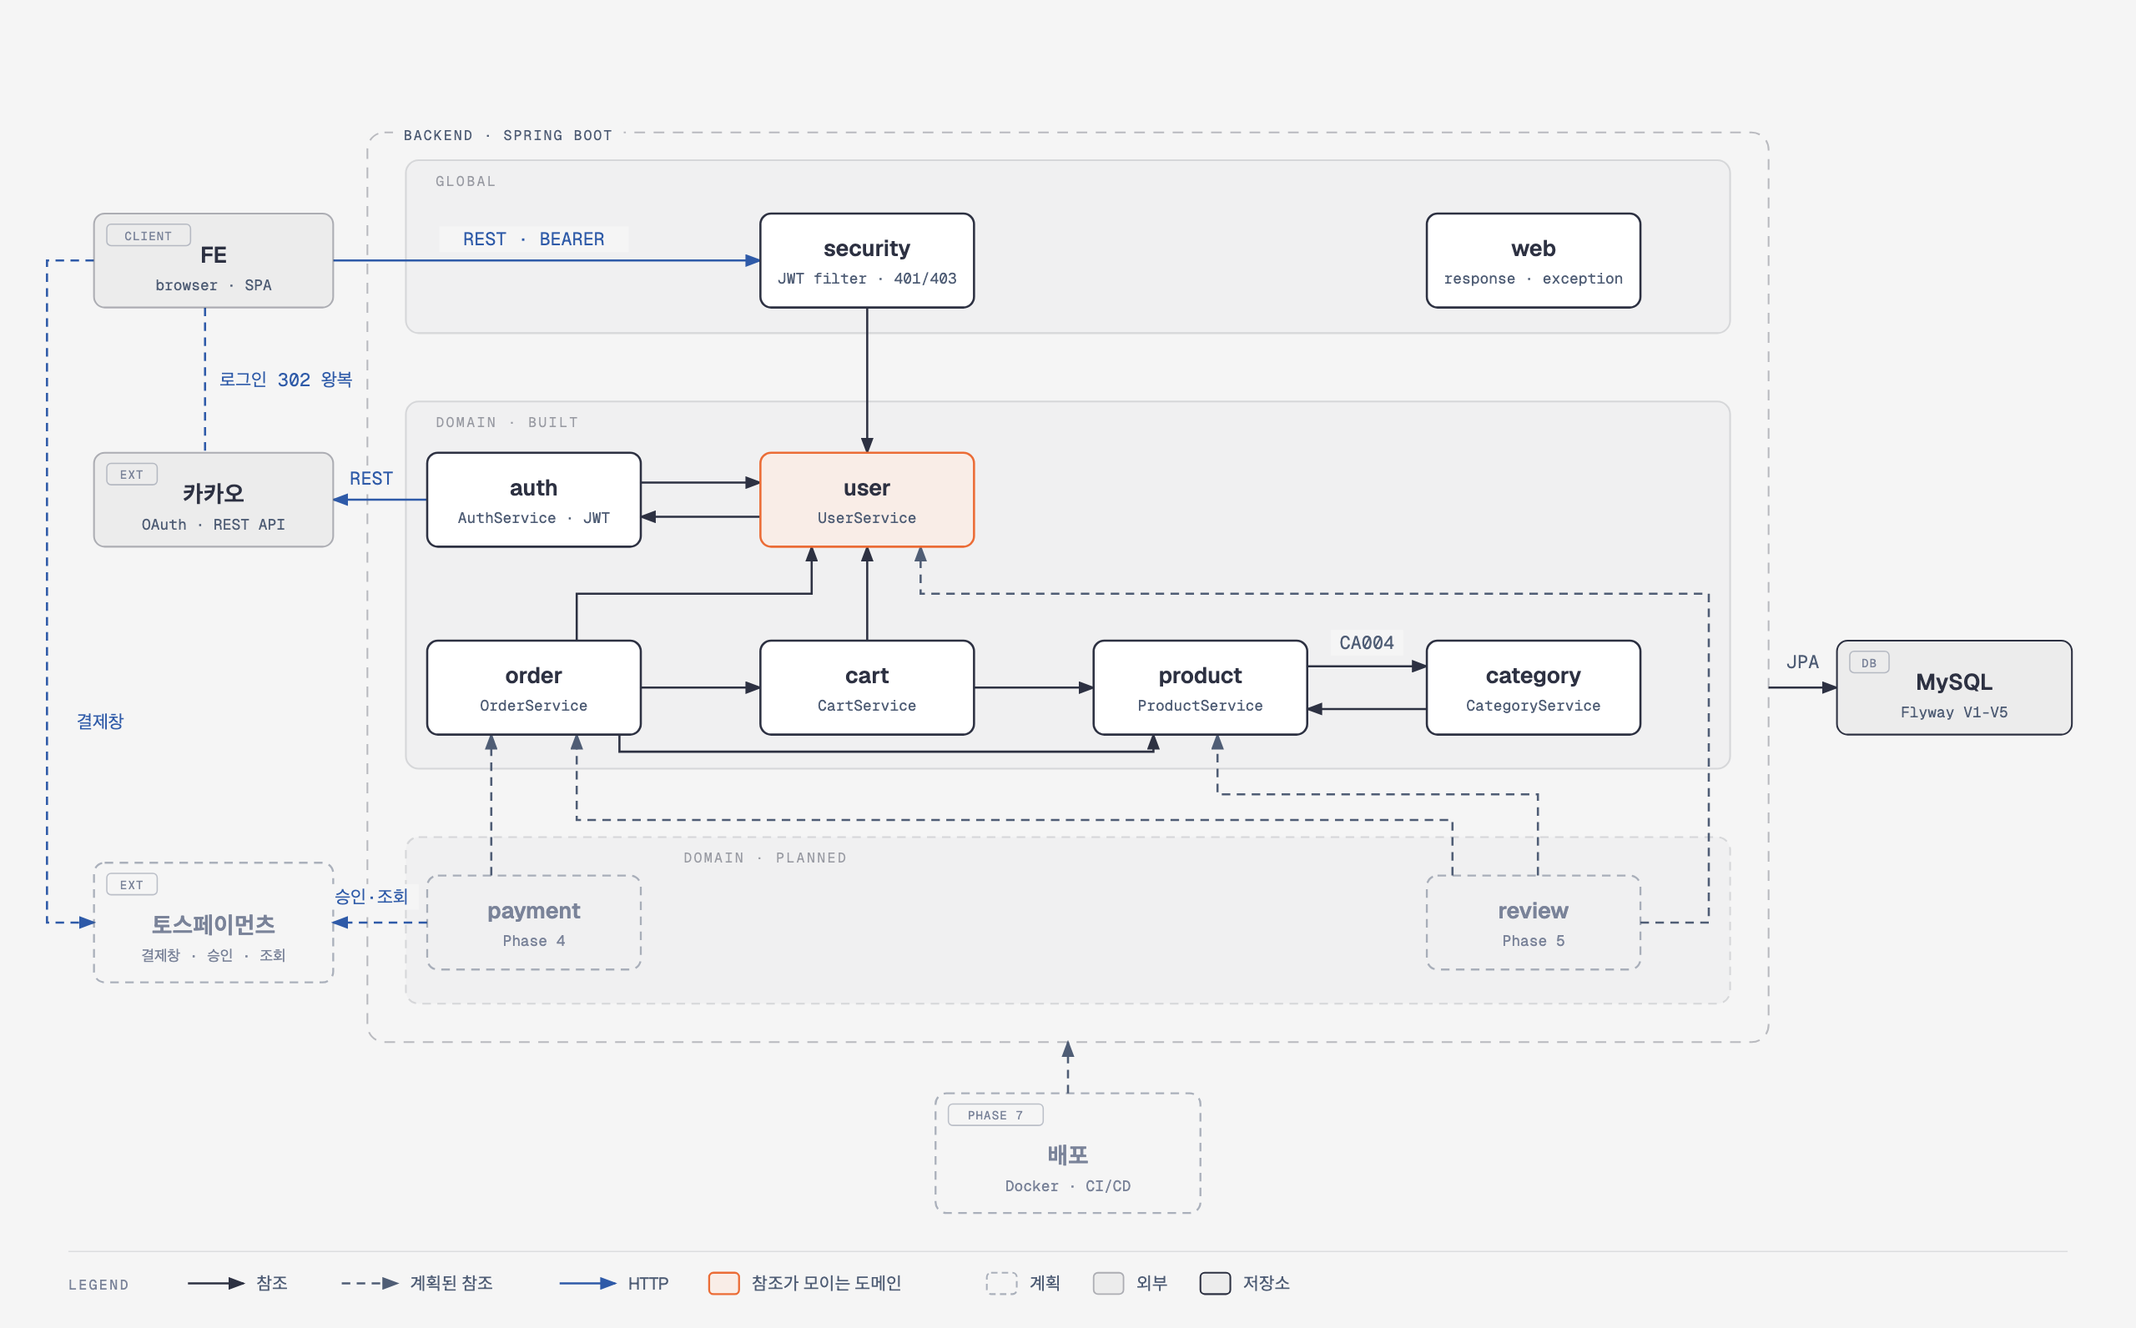
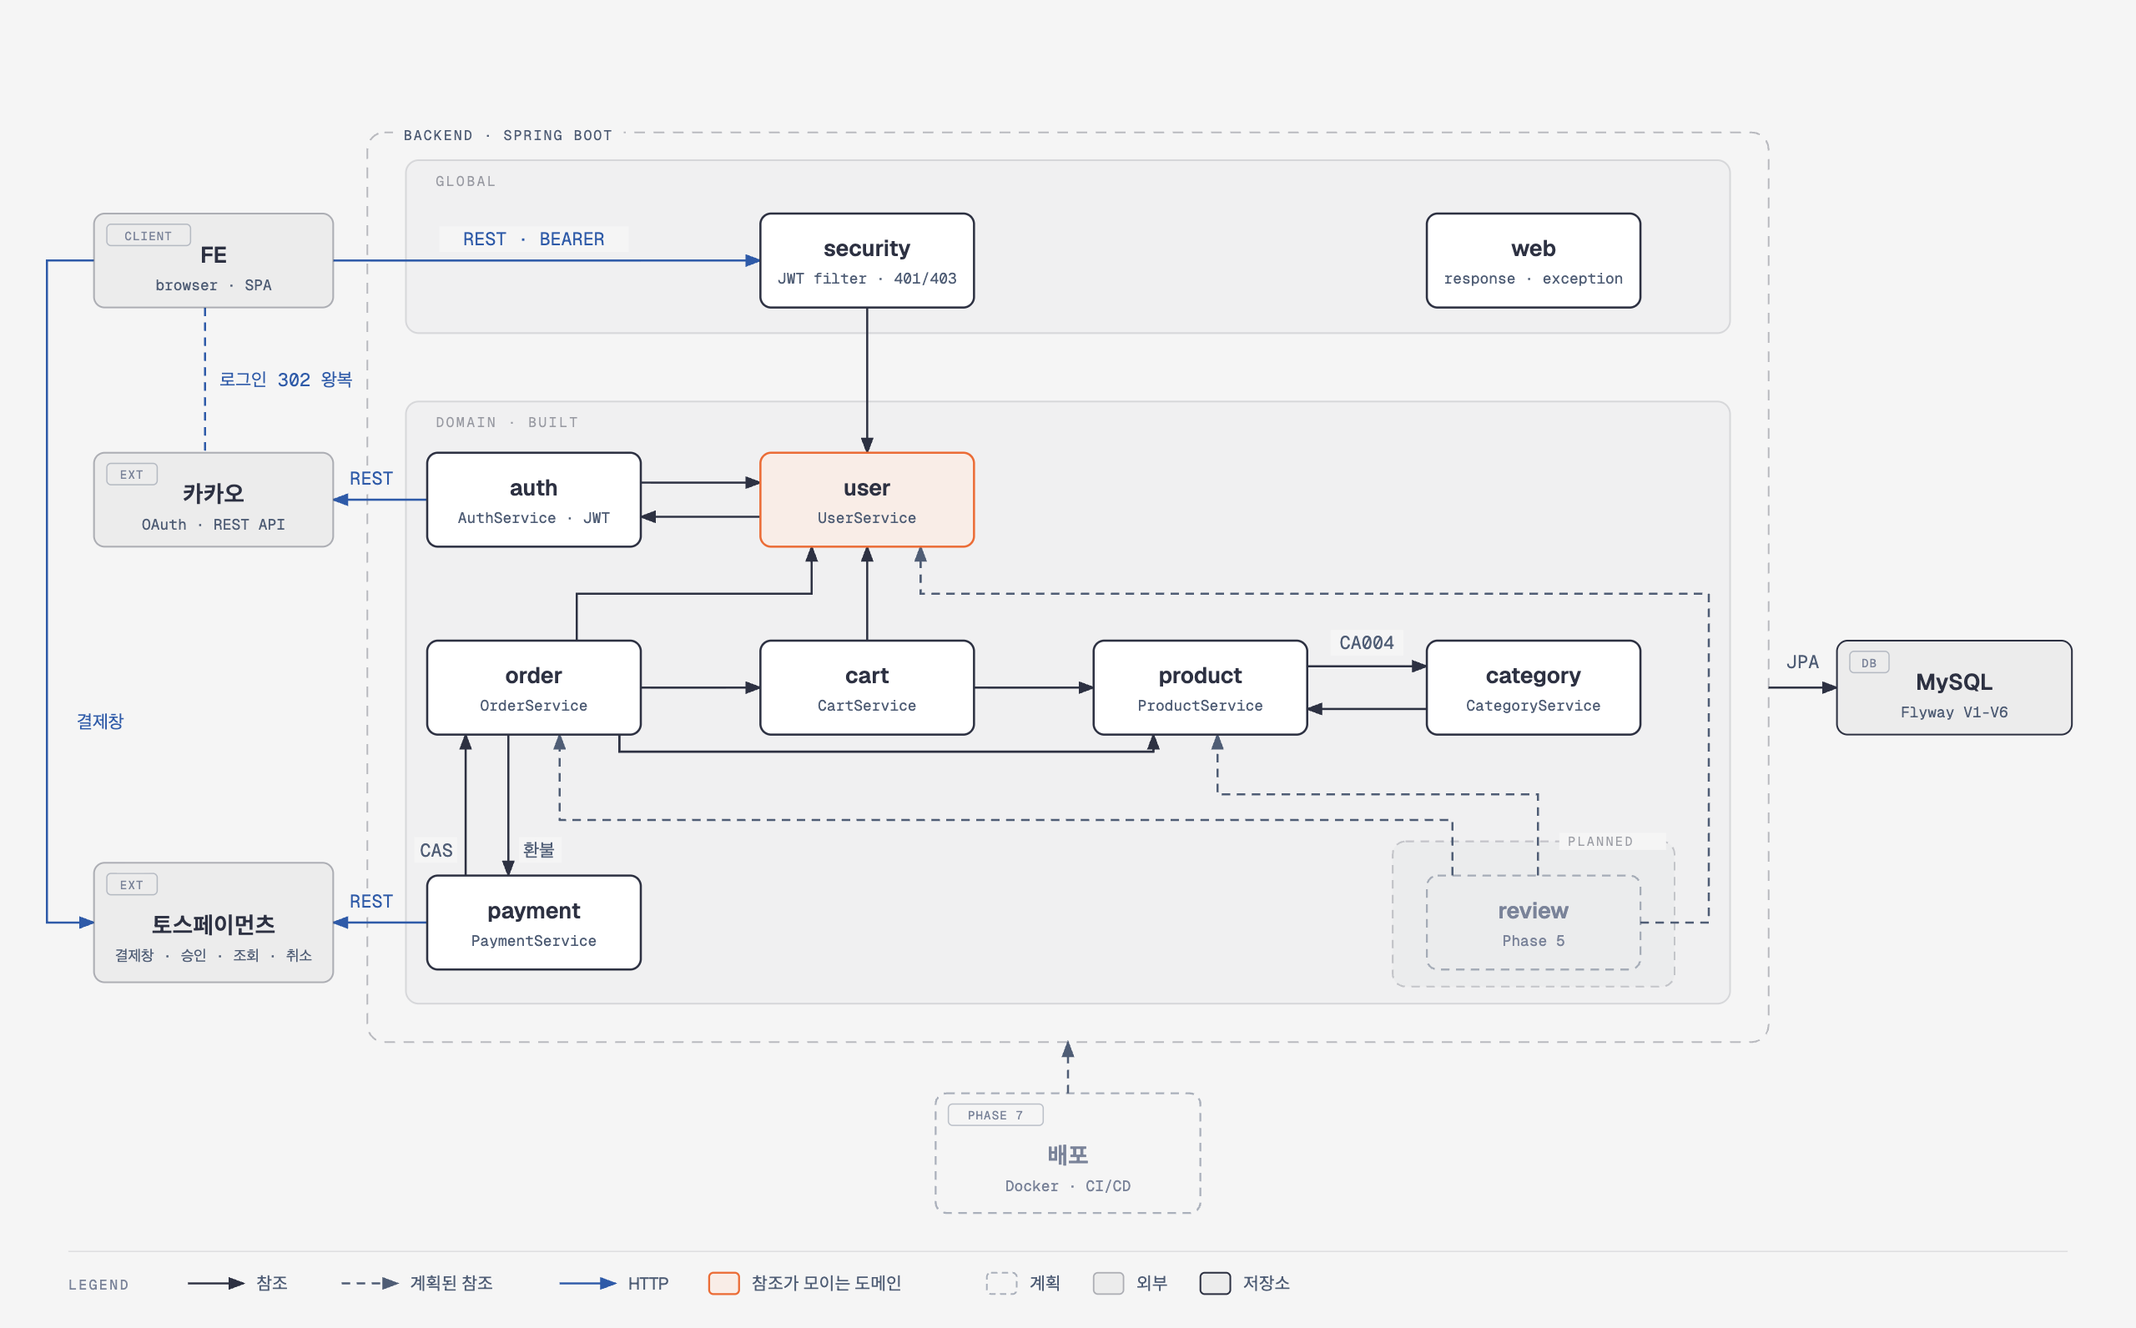
docs: 시스템 구성도에 payment 도메인과 토스페이먼츠를 구현 상태로 반영

diff --git a/docs/diagrams/src/system-overview.html b/docs/diagrams/src/system-overview.html
@@ -9,7 +9,7 @@
 <body>
 <svg xmlns="http://www.w3.org/2000/svg" viewBox="0 0 1000 622" width="1000" height="622" role="img" aria-labelledby="so-title so-desc">
 <title id="so-title">시스템 구성도</title>
-<desc id="so-desc">FE, 카카오, 토스페이먼츠, 백엔드 도메인, MySQL의 관계와 도메인 간 참조</desc>
+<desc id="so-desc">FE, 카카오, 토스페이먼츠, 백엔드 도메인, MySQL의 관계와 도메인 간 참조. 리뷰와 배포만 계획 상태다</desc>
 <defs><marker id="so-m" markerWidth="8" markerHeight="6" refX="7" refY="3" orient="auto"><polygon points="0 0, 8 3, 0 6" fill="#4f5d75"/></marker><marker id="so-i" markerWidth="8" markerHeight="6" refX="7" refY="3" orient="auto"><polygon points="0 0, 8 3, 0 6" fill="#2d3142"/></marker><marker id="so-l" markerWidth="8" markerHeight="6" refX="7" refY="3" orient="auto"><polygon points="0 0, 8 3, 0 6" fill="#2e5aa8"/></marker><marker id="so-n" markerWidth="8" markerHeight="6" refX="7" refY="3" orient="auto"><polygon points="0 0, 8 3, 0 6" fill="none"/></marker></defs>
 <rect width="1000" height="622" fill="#f5f5f5"/>
 <rect x="172" y="62" width="656" height="426" rx="8" fill="none" stroke="rgba(45,49,66,0.30)" stroke-width="0.8" stroke-dasharray="5,4"/>
@@ -17,10 +17,11 @@
 <text x="189" y="65.5" fill="#4f5d75" font-size="6.5" font-weight="400" font-family="'Geist Mono',ui-monospace,monospace" text-anchor="start" letter-spacing="0.12em">BACKEND · SPRING BOOT</text>
 <rect x="190" y="75" width="620" height="81" rx="6" fill="rgba(45,49,66,0.022)" stroke="rgba(45,49,66,0.14)" stroke-width="0.8"/>
 <text x="204" y="87" fill="rgba(45,49,66,0.45)" font-size="6.5" font-weight="400" font-family="'Geist Mono',ui-monospace,monospace" text-anchor="start" letter-spacing="0.14em">GLOBAL</text>
-<rect x="190" y="188" width="620" height="172" rx="6" fill="rgba(45,49,66,0.022)" stroke="rgba(45,49,66,0.14)" stroke-width="0.8"/>
+<rect x="190" y="188" width="620" height="282" rx="6" fill="rgba(45,49,66,0.022)" stroke="rgba(45,49,66,0.14)" stroke-width="0.8"/>
 <text x="204" y="200" fill="rgba(45,49,66,0.45)" font-size="6.5" font-weight="400" font-family="'Geist Mono',ui-monospace,monospace" text-anchor="start" letter-spacing="0.14em">DOMAIN · BUILT</text>
-<rect x="190" y="392" width="620" height="78" rx="6" fill="rgba(45,49,66,0.022)" stroke="rgba(45,49,66,0.14)" stroke-width="0.8" stroke-dasharray="4,3"/>
-<text x="320" y="404" fill="rgba(45,49,66,0.45)" font-size="6.5" font-weight="400" font-family="'Geist Mono',ui-monospace,monospace" text-anchor="start" letter-spacing="0.14em">DOMAIN · PLANNED</text>
+<rect x="652" y="394" width="132" height="68" rx="6" fill="rgba(45,49,66,0.022)" stroke="rgba(45,49,66,0.22)" stroke-width="0.8" stroke-dasharray="4,3"/>
+<rect x="730" y="390" width="50" height="8" fill="#f5f5f5"/>
+<text x="734" y="396" fill="rgba(45,49,66,0.45)" font-size="6" font-weight="400" font-family="'Geist Mono',ui-monospace,monospace" text-anchor="start" letter-spacing="0.14em">PLANNED</text>
 <path d="M156 122 H356" fill="none" stroke="#2e5aa8" stroke-width="1" marker-end="url(#so-l)"/>
 <path d="M406 144 V212" fill="none" stroke="#2d3142" stroke-width="1" marker-end="url(#so-i)"/>
 <path d="M96 144 V212" fill="none" stroke="#2e5aa8" stroke-width="1" stroke-dasharray="4,3" marker-end="url(#so-n)"/>
@@ -34,14 +35,15 @@
 <path d="M300 322 H356" fill="none" stroke="#2d3142" stroke-width="1" marker-end="url(#so-i)"/>
 <path d="M270 300 V278 H380 V256" fill="none" stroke="#2d3142" stroke-width="1" marker-end="url(#so-i)"/>
 <path d="M290 344 V352 H540 V344" fill="none" stroke="#2d3142" stroke-width="1" marker-end="url(#so-i)"/>
-<path d="M230 410 V344" fill="none" stroke="#4f5d75" stroke-width="1" stroke-dasharray="4,3" marker-end="url(#so-m)"/>
+<path d="M218 410 V344" fill="none" stroke="#2d3142" stroke-width="1" marker-end="url(#so-i)"/>
+<path d="M238 344 V410" fill="none" stroke="#2d3142" stroke-width="1" marker-end="url(#so-i)"/>
 <path d="M720 410 V372 H570 V344" fill="none" stroke="#4f5d75" stroke-width="1" stroke-dasharray="4,3" marker-end="url(#so-m)"/>
-<path d="M680 410 V384 H270 V344" fill="none" stroke="#4f5d75" stroke-width="1" stroke-dasharray="4,3" marker-end="url(#so-m)"/>
+<path d="M680 410 V384 H262 V344" fill="none" stroke="#4f5d75" stroke-width="1" stroke-dasharray="4,3" marker-end="url(#so-m)"/>
 <path d="M768 432 H800 V278 H431 V256" fill="none" stroke="#4f5d75" stroke-width="1" stroke-dasharray="4,3" marker-end="url(#so-m)"/>
 <path d="M500 512 V488" fill="none" stroke="#4f5d75" stroke-width="1" stroke-dasharray="4,3" marker-end="url(#so-m)"/>
 <path d="M828 322 H860" fill="none" stroke="#2d3142" stroke-width="1" marker-end="url(#so-i)"/>
-<path d="M44 122 H22 V432 H44" fill="none" stroke="#2e5aa8" stroke-width="1" stroke-dasharray="4,3" marker-end="url(#so-l)"/>
-<path d="M200 432 H156" fill="none" stroke="#2e5aa8" stroke-width="1" stroke-dasharray="4,3" marker-end="url(#so-l)"/>
+<path d="M44 122 H22 V432 H44" fill="none" stroke="#2e5aa8" stroke-width="1" marker-end="url(#so-l)"/>
+<path d="M200 432 H156" fill="none" stroke="#2e5aa8" stroke-width="1" marker-end="url(#so-l)"/>
 <rect x="44" y="100" width="112" height="44" rx="5" fill="#ececec" stroke="rgba(45,49,66,0.35)" stroke-width="0.8"/>
 <rect x="50" y="105" width="39.2" height="10" rx="2" fill="none" stroke="rgba(79,93,117,0.35)" stroke-width="0.6"/>
 <text x="69.6" y="112.4" fill="#7a8399" font-size="5.5" font-weight="400" font-family="'Geist Mono',ui-monospace,monospace" text-anchor="middle" letter-spacing="0.08em">CLIENT</text>
@@ -52,11 +54,11 @@
 <text x="61.8" y="224.4" fill="#7a8399" font-size="5.5" font-weight="400" font-family="'Geist Mono',ui-monospace,monospace" text-anchor="middle" letter-spacing="0.08em">EXT</text>
 <text x="100.0" y="235.0" fill="#2d3142" font-size="10.5" font-weight="600" font-family="'Geist','Noto Sans KR','Apple SD Gothic Neo',sans-serif" text-anchor="middle">카카오</text>
 <text x="100.0" y="248.0" fill="#4f5d75" font-size="7" font-weight="400" font-family="'Geist Mono',ui-monospace,monospace" text-anchor="middle">OAuth · REST API</text>
-<rect x="44" y="404" width="112" height="56" rx="5" fill="none" stroke="rgba(79,93,117,0.45)" stroke-width="0.9" stroke-dasharray="4,3"/>
+<rect x="44" y="404" width="112" height="56" rx="5" fill="#ececec" stroke="rgba(45,49,66,0.35)" stroke-width="0.8"/>
 <rect x="50" y="409" width="23.6" height="10" rx="2" fill="none" stroke="rgba(79,93,117,0.35)" stroke-width="0.6"/>
 <text x="61.8" y="416.4" fill="#7a8399" font-size="5.5" font-weight="400" font-family="'Geist Mono',ui-monospace,monospace" text-anchor="middle" letter-spacing="0.08em">EXT</text>
-<text x="100.0" y="437" fill="#7a8399" font-size="10.5" font-weight="600" font-family="'Geist','Noto Sans KR','Apple SD Gothic Neo',sans-serif" text-anchor="middle">토스페이먼츠</text>
-<text x="100.0" y="450" fill="#7a8399" font-size="7" font-weight="400" font-family="'Geist Mono',ui-monospace,monospace" text-anchor="middle">결제창 · 승인 · 조회</text>
+<text x="100.0" y="437" fill="#2d3142" font-size="10.5" font-weight="600" font-family="'Geist','Noto Sans KR','Apple SD Gothic Neo',sans-serif" text-anchor="middle">토스페이먼츠</text>
+<text x="100.0" y="450" fill="#4f5d75" font-size="7" font-weight="400" font-family="'Geist Mono',ui-monospace,monospace" text-anchor="middle">결제창 · 승인 · 조회 · 취소</text>
 <rect x="356" y="100" width="100" height="44" rx="5" fill="#ffffff" stroke="#2d3142" stroke-width="1"/>
 <text x="406.0" y="120.0" fill="#2d3142" font-size="10.5" font-weight="600" font-family="'Geist','Noto Sans KR','Apple SD Gothic Neo',sans-serif" text-anchor="middle">security</text>
 <text x="406.0" y="133.0" fill="#4f5d75" font-size="7" font-weight="400" font-family="'Geist Mono',ui-monospace,monospace" text-anchor="middle">JWT filter · 401/403</text>
@@ -81,9 +83,9 @@
 <rect x="200" y="300" width="100" height="44" rx="5" fill="#ffffff" stroke="#2d3142" stroke-width="1"/>
 <text x="250.0" y="320.0" fill="#2d3142" font-size="10.5" font-weight="600" font-family="'Geist','Noto Sans KR','Apple SD Gothic Neo',sans-serif" text-anchor="middle">order</text>
 <text x="250.0" y="333.0" fill="#4f5d75" font-size="7" font-weight="400" font-family="'Geist Mono',ui-monospace,monospace" text-anchor="middle">OrderService</text>
-<rect x="200" y="410" width="100" height="44" rx="5" fill="none" stroke="rgba(79,93,117,0.45)" stroke-width="0.9" stroke-dasharray="4,3"/>
-<text x="250.0" y="430.0" fill="#7a8399" font-size="10.5" font-weight="600" font-family="'Geist','Noto Sans KR','Apple SD Gothic Neo',sans-serif" text-anchor="middle">payment</text>
-<text x="250.0" y="443.0" fill="#7a8399" font-size="7" font-weight="400" font-family="'Geist Mono',ui-monospace,monospace" text-anchor="middle">Phase 4</text>
+<rect x="200" y="410" width="100" height="44" rx="5" fill="#ffffff" stroke="#2d3142" stroke-width="1"/>
+<text x="250.0" y="430.0" fill="#2d3142" font-size="10.5" font-weight="600" font-family="'Geist','Noto Sans KR','Apple SD Gothic Neo',sans-serif" text-anchor="middle">payment</text>
+<text x="250.0" y="443.0" fill="#4f5d75" font-size="7" font-weight="400" font-family="'Geist Mono',ui-monospace,monospace" text-anchor="middle">PaymentService</text>
 <rect x="668" y="410" width="100" height="44" rx="5" fill="none" stroke="rgba(79,93,117,0.45)" stroke-width="0.9" stroke-dasharray="4,3"/>
 <text x="718.0" y="430.0" fill="#7a8399" font-size="10.5" font-weight="600" font-family="'Geist','Noto Sans KR','Apple SD Gothic Neo',sans-serif" text-anchor="middle">review</text>
 <text x="718.0" y="443.0" fill="#7a8399" font-size="7" font-weight="400" font-family="'Geist Mono',ui-monospace,monospace" text-anchor="middle">Phase 5</text>
@@ -91,7 +93,7 @@
 <rect x="866" y="305" width="18.4" height="10" rx="2" fill="none" stroke="rgba(79,93,117,0.35)" stroke-width="0.6"/>
 <text x="875.2" y="312.4" fill="#7a8399" font-size="5.5" font-weight="400" font-family="'Geist Mono',ui-monospace,monospace" text-anchor="middle" letter-spacing="0.08em">DB</text>
 <text x="915.0" y="323.0" fill="#2d3142" font-size="10.5" font-weight="600" font-family="'Geist','Noto Sans KR','Apple SD Gothic Neo',sans-serif" text-anchor="middle">MySQL</text>
-<text x="915.0" y="336.0" fill="#4f5d75" font-size="7" font-weight="400" font-family="'Geist Mono',ui-monospace,monospace" text-anchor="middle">Flyway V1-V5</text>
+<text x="915.0" y="336.0" fill="#4f5d75" font-size="7" font-weight="400" font-family="'Geist Mono',ui-monospace,monospace" text-anchor="middle">Flyway V1-V6</text>
 <rect x="438" y="512" width="124" height="56" rx="5" fill="none" stroke="rgba(79,93,117,0.45)" stroke-width="0.9" stroke-dasharray="4,3"/>
 <rect x="444" y="517" width="44.4" height="10" rx="2" fill="none" stroke="rgba(79,93,117,0.35)" stroke-width="0.6"/>
 <text x="466.2" y="524.4" fill="#7a8399" font-size="5.5" font-weight="400" font-family="'Geist Mono',ui-monospace,monospace" text-anchor="middle" letter-spacing="0.08em">PHASE 7</text>
@@ -107,10 +109,14 @@
 <text x="640" y="304" fill="#4f5d75" font-size="8.5" font-weight="400" font-family="'Geist Mono',ui-monospace,monospace" text-anchor="middle">CA004</text>
 <rect x="833.0" y="304" width="22" height="12" fill="#f5f5f5"/>
 <text x="844" y="313" fill="#4f5d75" font-size="8.5" font-weight="400" font-family="'Geist Mono',ui-monospace,monospace" text-anchor="middle">JPA</text>
-<rect x="152.0" y="414" width="44" height="12" fill="#f5f5f5"/>
-<text x="174" y="423" fill="#2e5aa8" font-size="8.5" font-weight="400" font-family="'Geist Mono',ui-monospace,monospace" text-anchor="middle">승인·조회</text>
+<rect x="160.0" y="416" width="28" height="12" fill="#f5f5f5"/>
+<text x="174" y="425" fill="#2e5aa8" font-size="8.5" font-weight="400" font-family="'Geist Mono',ui-monospace,monospace" text-anchor="middle">REST</text>
 <rect x="30.0" y="332" width="34" height="12" fill="#f5f5f5"/>
 <text x="47" y="341" fill="#2e5aa8" font-size="8.5" font-weight="400" font-family="'Geist Mono',ui-monospace,monospace" text-anchor="middle">결제창</text>
+<rect x="194" y="392" width="20" height="12" fill="#f5f5f5"/>
+<text x="212" y="401" fill="#4f5d75" font-size="8.5" font-weight="400" font-family="'Geist Mono',ui-monospace,monospace" text-anchor="end">CAS</text>
+<rect x="243" y="392" width="20" height="12" fill="#f5f5f5"/>
+<text x="245" y="401" fill="#4f5d75" font-size="8.5" font-weight="400" font-family="'Geist Mono',ui-monospace,monospace" text-anchor="start">환불</text>
 <line x1="32" y1="586" x2="968" y2="586" stroke="rgba(45,49,66,0.12)" stroke-width="0.6"/>
 <text x="32" y="604" fill="#7a8399" font-size="6.5" font-weight="400" font-family="'Geist Mono',ui-monospace,monospace" text-anchor="start" letter-spacing="0.14em">LEGEND</text>
 <path d="M88 601 H114" fill="none" stroke="#2d3142" stroke-width="1" marker-end="url(#so-i)"/>

diff --git a/docs/diagrams/global/system-overview.md b/docs/diagrams/global/system-overview.md
@@ -2,7 +2,7 @@
 
 - **답하는 질문**: 시스템은 무엇과 통신하고, 안에 어떤 도메인이 있는가
 - **범위**: 외부 시스템 · 도메인 · 도메인 간 참조. 클래스 수준은 [요청 처리 파이프라인](request-pipeline.md)과 시퀀스가 맡는다
-- **원천**: [architecture.md](../../architecture.md) "의존 규칙" · [deployment.md](../../deployment.md) · ADR [0001](../../decisions/auth/0001-kakao-only-oauth.md) · [0008](../../decisions/platform/0008-flyway-owns-schema.md) · [0014](../../decisions/catalog/0014-category-reads-product-repository.md)
+- **원천**: [architecture.md](../../architecture.md) "의존 규칙" · [deployment.md](../../deployment.md) · ADR [0001](../../decisions/auth/0001-kakao-only-oauth.md) · [0008](../../decisions/platform/0008-flyway-owns-schema.md) · [0014](../../decisions/catalog/0014-category-reads-product-repository.md) · [0031](../../decisions/purchase/0031-payment-uses-order-repository-for-state-cas.md)
 
 ![시스템 구성도](../images/system-overview.png)
 
@@ -13,8 +13,8 @@
 flowchart LR
     FE["FE (브라우저)<br/>access token은 메모리<br/>refresh token은 HttpOnly 쿠키"]
     Kakao["카카오<br/>인가 · 토큰 · 사용자 정보 · 연결 해제"]
-    Toss["토스페이먼츠<br/>결제창 · 승인 · 조회"]:::planned
-    DB[("MySQL<br/>스키마는 Flyway V1~V5")]
+    Toss["토스페이먼츠<br/>결제창 · 승인 · 조회 · 취소"]
+    DB[("MySQL<br/>스키마는 Flyway V1~V6")]
 
     subgraph BE["백엔드 (Spring Boot)"]
         direction LR
@@ -32,10 +32,10 @@ flowchart LR
                 Product[product]
                 Category[category]
                 Order[order]
+                Payment[payment]
             end
             subgraph next["계획"]
                 direction LR
-                Payment[payment]:::planned
                 Review[review]:::planned
             end
         end
@@ -45,9 +45,9 @@ flowchart LR
 
     FE -- "REST · Bearer" --> BE
     FE -. "로그인 시 302 왕복" .- Kakao
-    FE -. "결제창" .-> Toss
+    FE -- "결제창" --> Toss
     Auth -- "REST" --> Kakao
-    Payment -. "승인 · 조회" .-> Toss
+    Payment -- "REST" --> Toss
     BE -- "JPA" --> DB
     Sec --> User
 
@@ -62,7 +62,8 @@ flowchart LR
     Order --> Product
     Order --> User
 
-    Payment -.-> Order
+    Payment -- "CAS" --> Order
+    Order -- "환불" --> Payment
     Review -.-> Product
     Review -.-> User
     Review -.-> Order
@@ -76,9 +77,11 @@ flowchart LR
 
 ## 읽는 법
 
-- **화살표는 "참조한다"**다. 모든 도메인 간 참조는 상대 Service를 거친다. 예외는 `category → product` 하나로,
-  Service를 거치면 생성자 주입이 순환해 `ProductRepository`를 직접 읽는다
+- **화살표는 "참조한다"**다. 도메인 간 참조는 상대 Service를 거친다. 예외는 둘이다
+  - `category → product` — Service를 거치면 생성자 주입이 순환해 `ProductRepository`를 직접 읽는다
+  - `payment → order`(CAS) — 결제의 상태 CAS는 지킬 규칙이 쿼리 조건 자체라 `OrderRepository`로 직접 실행한다. 재고 복구는 `OrderService`를 거친다
+- `order → payment`(환불)는 `PAID` 주문 취소가 `OrderCancelService → RefundService`로 환불을 부르는 것이다
 - `auth ↔ user`가 양방향인 것은 의도다 — 로그인은 회원을 찾거나 만들고(`auth → user`),
   탈퇴는 토큰 폐기와 카카오 연결 해제까지 끝내야 한다(`user → auth`)
 - `security → user`는 JWT 필터가 **매 요청 DB에서 회원과 role을 읽기** 때문이다. 권한이 토큰 claim에 들어 있지 않다
-- 점선은 Phase 4 Payment·토스페이먼츠, Phase 5 Review, Phase 7 배포다. 참조 방향은 architecture.md에 미리 정해 둔 것이다
+- 점선은 Phase 5 Review와 Phase 7 배포다. 참조 방향은 architecture.md에 미리 정해 둔 것이다
